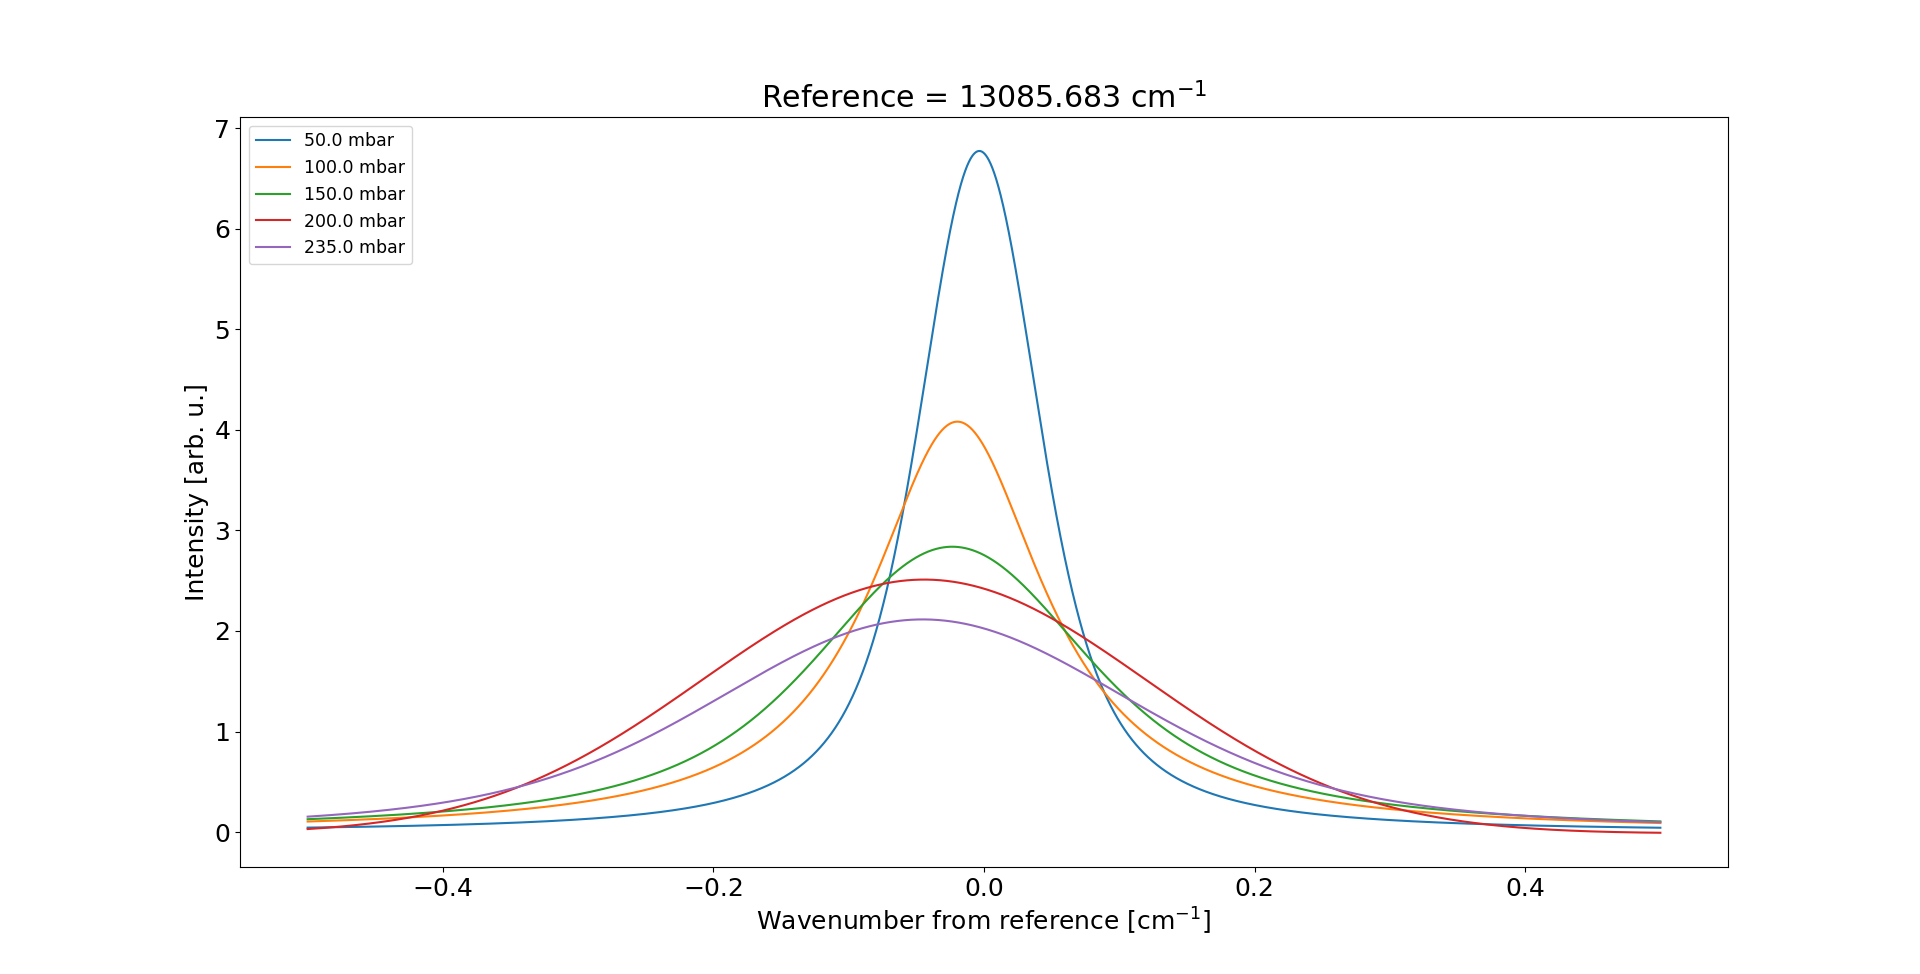
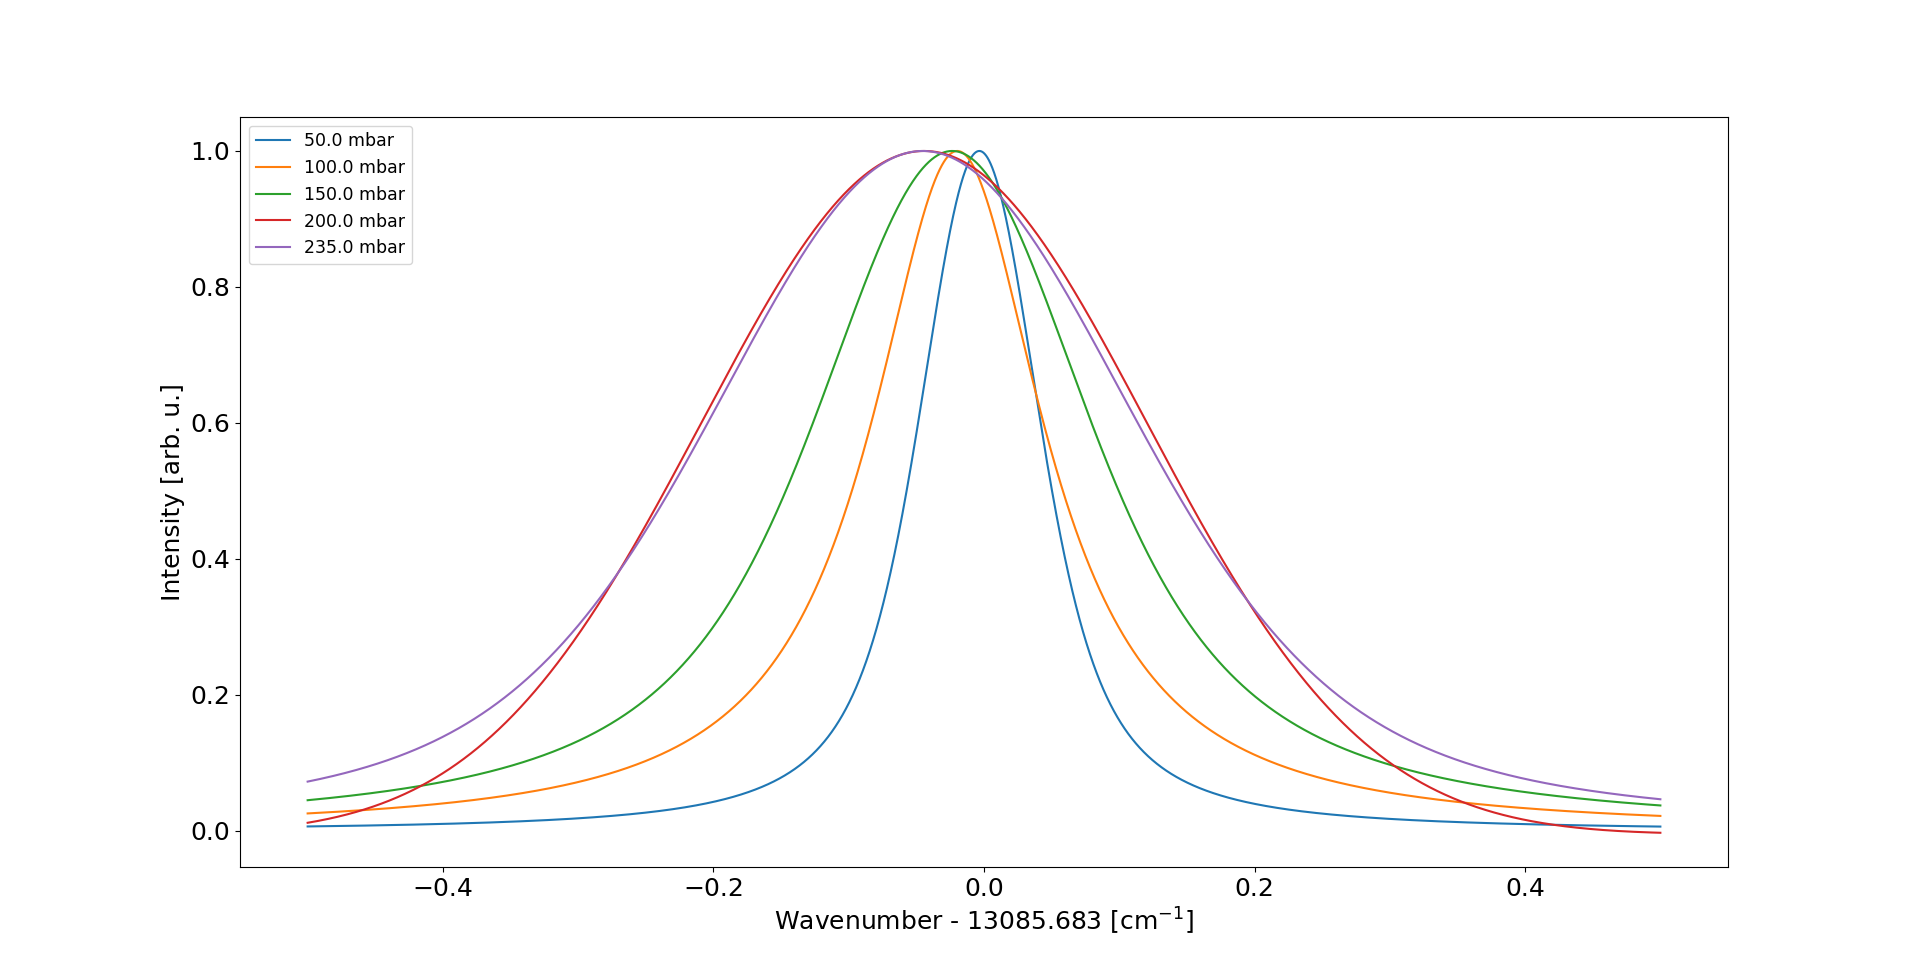
corrected some mistakes

diff --git a/scans/fitplotter.py b/scans/fitplotter.py
@@ -12,6 +12,7 @@ import matplotlib.pyplot as plt
 from scipy.optimize import curve_fit
 
 PI = 3.14159265359
+c  = 29.9792458 #cm/ns
 
 def voigt(x, n, mu, sigma, gamma):
     return n*np.real(wofz((x-mu+1j*gamma)/sigma/sqrt(2)))/sigma/sqrt(2*PI)
@@ -25,30 +26,31 @@ def txtreader(filename):
 
 pres, n, nerr, mu, muerr, fwhm, fwhmerr, sigma, sigmaerr, gamma, gammaerr = txtreader("results/stats.txt")
 
-x = np.linspace(-.5,.5,10000)
+x = np.linspace(-2,.5,10000)
 midpoint = 13085.683
 
 plt.rcParams['font.size'] = 18
 
-for i in range(len(pres)):
-    mu[i] /= 29.9792458
-    mu[i] -= midpoint
-    muerr[i] /= 29.9792458
-    plt.plot(x, voigt(x, 1, mu[i], sigma[i], gamma[i]), '-', label = str(pres[i])+' mbar')
 
-plt.xlabel('Wavenumber from reference [cm$^{-1}$]')
+for i in range(len(pres)):
+    mu[i] -= midpoint*c
+    y = voigt(x, 1, mu[i], sigma[i], gamma[i])
+    plt.plot(x, y/max(y), '-', label = str(pres[i])+' mbar')
+
+plt.xlabel('Laser frequency -'+ str(round(midpoint*c,0)) +'[GHz]')
 plt.ylabel('Intensity [arb. u.]')
-plt.title('Reference = 13085.683 cm$^{-1}$')
-plt.legend(loc=2,fontsize= 'x-small')
+plt.legend(fontsize= 'x-small')
 plt.show()
 plt.close()
 
 
 for i in range(len(mu)):
     mu[i] += midpoint
-    mu[i] *= 29.9792458
-    muerr[i] *= 29.9792458
-    mu[i] -= 39257.25
+    mu[i] *= c
+    muerr[i] *= c
+    mu[i] -= 39257.25*c
+
+ext = np.arange(0,250,10)
 
 fit, err = curve_fit(pol1, pres, mu)
 if fit[1] < 0:
@@ -58,13 +60,14 @@ elif fit[1] == 0:
 else:
     equation1 = 'y = ' + str(round(fit[0],5))+'x +'+str(round(fit[1],3))
 plt.errorbar(pres, mu, yerr=muerr, marker='s', lw = 0, mfc = 'C0')
-plt.plot(pres, pol1(pres, *fit), color = 'C0')
+plt.plot(ext, pol1(ext, *fit), '-', color = 'C0')
 plt.text(x= 125, y=max(mu), s= equation1)
 plt.grid(which='major', axis='both', linewidth=1)
 plt.xlabel('Pressure [mbar]')
 plt.ylabel('Centroid Position [GHz]')
 plt.title('Pressure Shift')
 plt.show()
+print(err[0][0])
 plt.close()
 
 # for i in range(len(fwhm)):
@@ -79,10 +82,11 @@ else:
     equation2 = 'y = ' + str(round(fit2[0],5))+'x +'+str(round(fit2[1],3))
 
 plt.errorbar(pres, fwhm, yerr=fwhmerr, marker='s', lw = 0, mfc = 'C0')
-plt.plot(pres, pol1(pres, *fit2), color = 'C0')
+plt.plot(ext, pol1(ext, *fit2), '-', color = 'C0')
 plt.text(x= 50, y=max(fwhm), s= equation2)
 plt.grid(which='major', axis='both', linewidth=1)
 plt.xlabel('Pressure [mbar]')
 plt.ylabel('Voigt Fit FWHM [GHz]')
 plt.title('Pressure Broadening')
+print(err2[0][0])
 plt.show()

diff --git a/scans/scan_plotter.py b/scans/scan_plotter.py
@@ -40,9 +40,6 @@ finalname = sys.argv[2]
 waveno1, counts1 = txtreader(in1)
 # waveno2, counts2 = txtreader(in2)
 
-#make a smooth array of times for the plot
-# smooth = np.arange(0.5*min(time),1.1*max(time))
-
 #define some nicer format for the plots
 plt.rcParams['font.size'] = 18
 
@@ -102,7 +99,7 @@ plt.legend(loc=2,fontsize= 'x-small')
 c = 29.9792458 #cm/ns
 mean = (vfit[1] + midpoint)*c
 meanerr = c*verr[1][1]
-fwhm = (fv+midpoint)*c
+fwhm = (fv)*c
 fwhmerr = errf*c
 
 f = open("results/stats.txt", "a")
